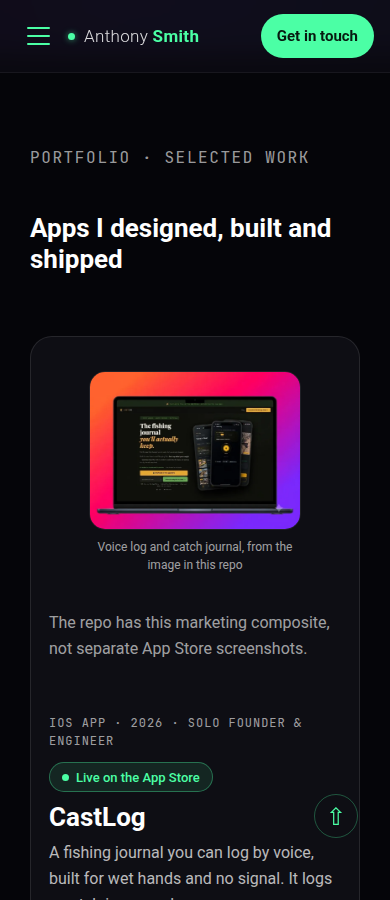
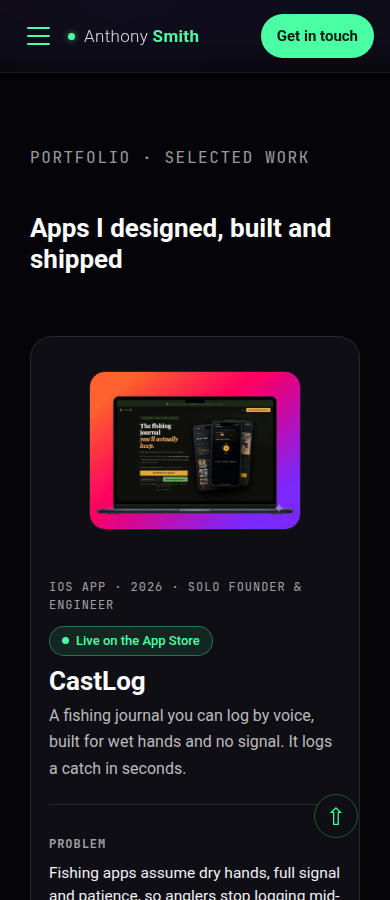
Remove visible build notes from the portfolio and about pages.
The CastLog caption, the missing-metric prompts, and the credential excuses no longer appear on the page.

Changed region(s): [[0.1231, 0.5911, 0.8923, 1.0]]

diff --git a/portfolio.html b/portfolio.html
@@ -253,9 +253,7 @@
 								<div class="case-shots">
 									<figure>
 										<img src="images/castlog.webp" width="1000" height="750" alt="CastLog marketing image already in the repo, showing the voice log and catch journal on phone screens inside a laptop mockup." loading="lazy" decoding="async" />
-										<figcaption>Voice log and catch journal, from the image in this repo</figcaption>
 									</figure>
-									<p class="shot-note">The repo has this marketing composite, not separate App Store screenshots.</p>
 								</div>
 								<div>
 									<div class="case-top">
@@ -272,7 +270,7 @@
 										<dt>Stack</dt>
 										<dd><span class="tag">React Native</span><span class="tag">On-device AI</span><span class="tag">Offline-first</span></dd>
 										<dt>Outcome</dt>
-										<dd>Shipped to the App Store. Voice logging, Fish ID with a 95% median confidence score, private spots, and CSV/JSON export are in the product.<br><span class="outcome-slot">+ Add one measured number here (e.g. median time to log, from analytics) once it exists</span></dd>
+										<dd>Shipped to the App Store. Voice logging, Fish ID with a 95% median confidence score, private spots, and CSV/JSON export are in the product.</dd>
 									</dl>
 									<div class="case-links">
 										<a class="primary" href="https://apps.apple.com/app/id6766137949" target="_blank" rel="noopener">View on the App Store ↗</a>
@@ -297,7 +295,7 @@
 										<dt>My role</dt>
 										<dd>Product, app, and back end. Built solo.</dd>
 										<dt>Outcome</dt>
-										<dd>On TestFlight. No timing number is published here.</dd>
+										<dd>On TestFlight.</dd>
 									</dl>
 									<a class="row-link" href="https://testflight.apple.com/join/7tFSghHS" target="_blank" rel="noopener">Join the TestFlight beta ↗</a>
 									<a class="row-link" href="https://nutrilogix-ai.com/" target="_blank" rel="noopener">Website ↗</a>

diff --git a/about.html b/about.html
@@ -381,13 +381,13 @@
 							<div class="cred-icon"><span class="fas fa-flag"></span></div>
 							<div class="cred-label">CTF Platform</div>
 							<div class="cred-title">TryHackMe</div>
-							<div class="cred-desc">Hands-on penetration testing and red-team labs. Rank is not linked here because this site has no public profile URL for it.</div>
+							<div class="cred-desc">Hands-on penetration testing and red-team labs.</div>
 						</div>
 						<div class="cred-card content-box">
 							<div class="cred-icon"><span class="fas fa-code-branch"></span></div>
 							<div class="cred-label">Community</div>
 							<div class="cred-title">Grepper</div>
-							<div class="cred-desc">Community answers for developers. Counts are not shown here because this site has no public profile URL for them.</div>
+							<div class="cred-desc">Community answers for developers.</div>
 						</div>
 						<div class="cred-card content-box">
 							<div class="cred-icon"><span class="fas fa-bug"></span></div>

diff --git a/css/review-fixes.css b/css/review-fixes.css
@@ -357,15 +357,6 @@
 	margin: 0 6px 6px 0;
 	color: rgba(255, 255, 255, 0.72);
 }
-.outcome-slot {
-	display: inline-block;
-	margin-top: 6px;
-	font-size: 13px;
-	color: rgba(255, 255, 255, 0.62);
-	border: 1px dashed rgba(255, 255, 255, 0.3);
-	border-radius: 8px;
-	padding: 6px 10px;
-}
 .case-links {
 	display: flex;
 	gap: 12px;
@@ -472,12 +463,6 @@
 	align-items: center;
 	min-height: 44px;
 }
-.shot-note {
-	margin-top: 8px;
-	font-size: 12px;
-	color: rgba(255, 255, 255, 0.62);
-}
-
 @media (max-width: 900px) {
 	.case-card { grid-template-columns: 1fr; padding: 18px; }
 	.case-rows { grid-template-columns: 1fr; }
